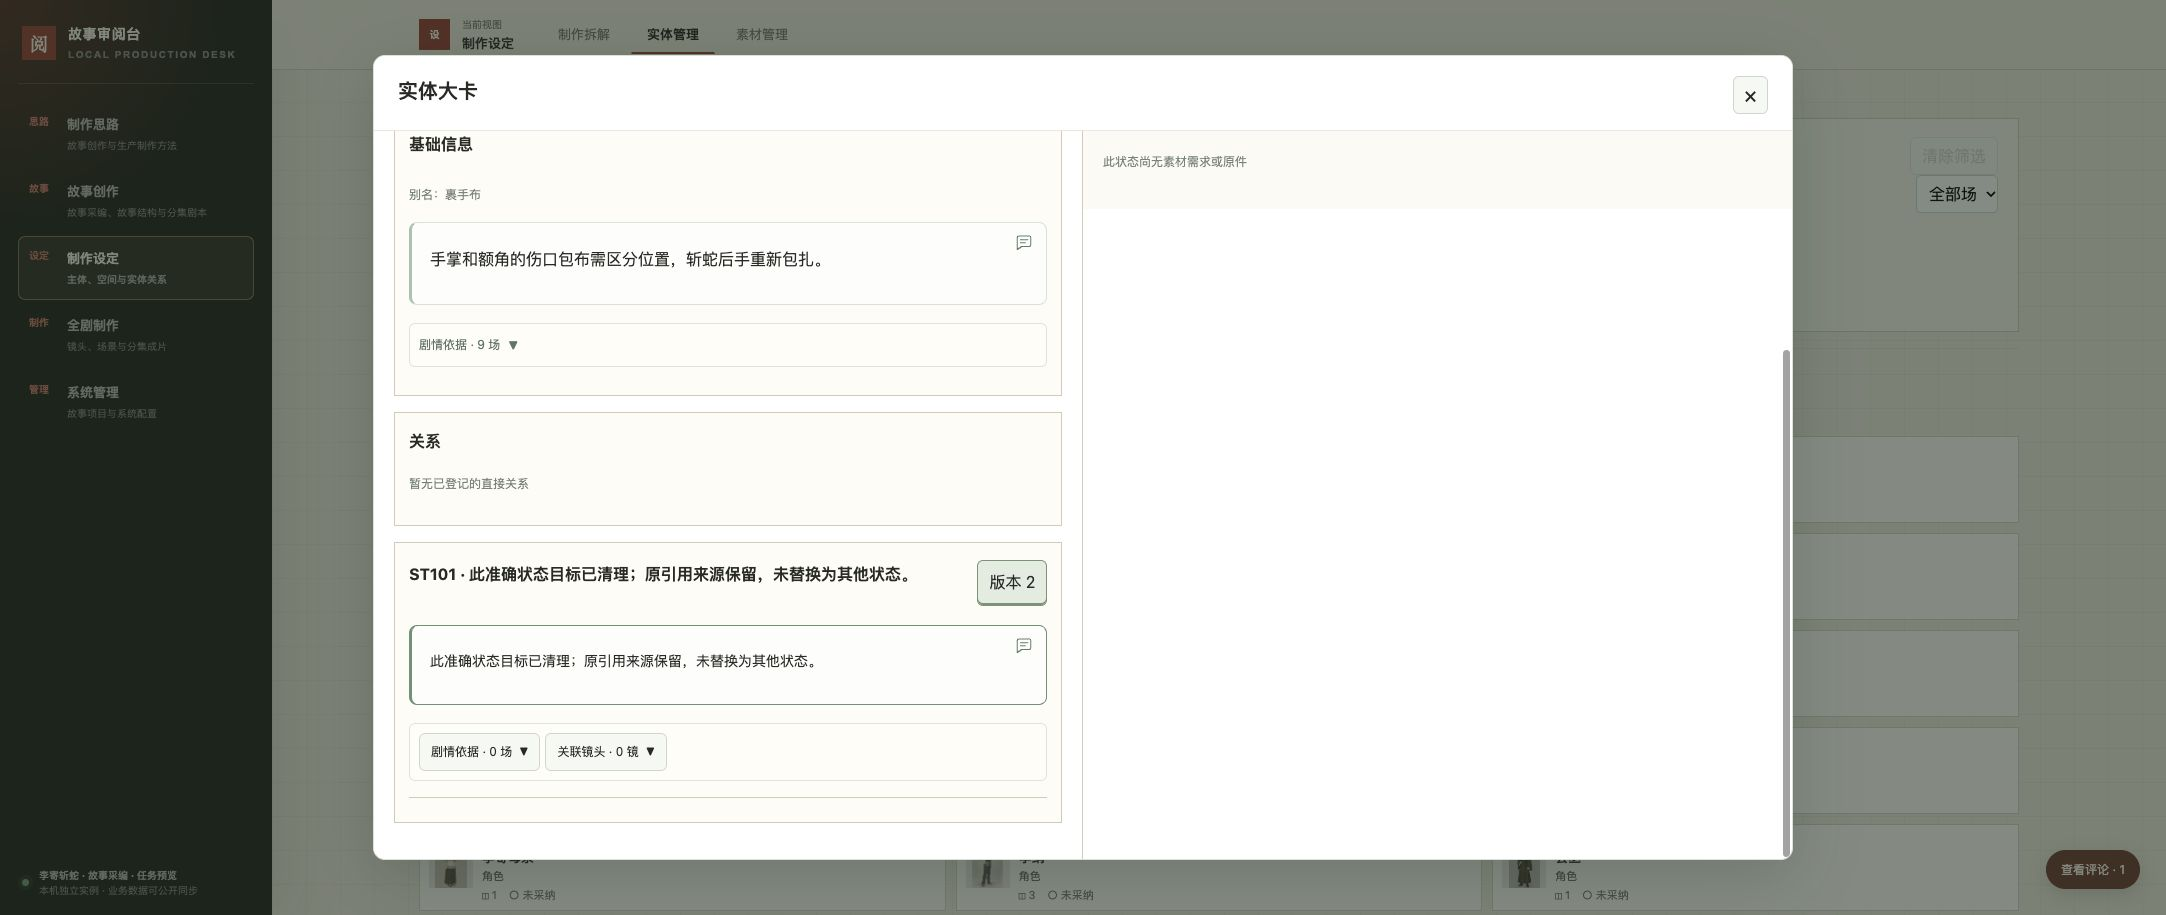
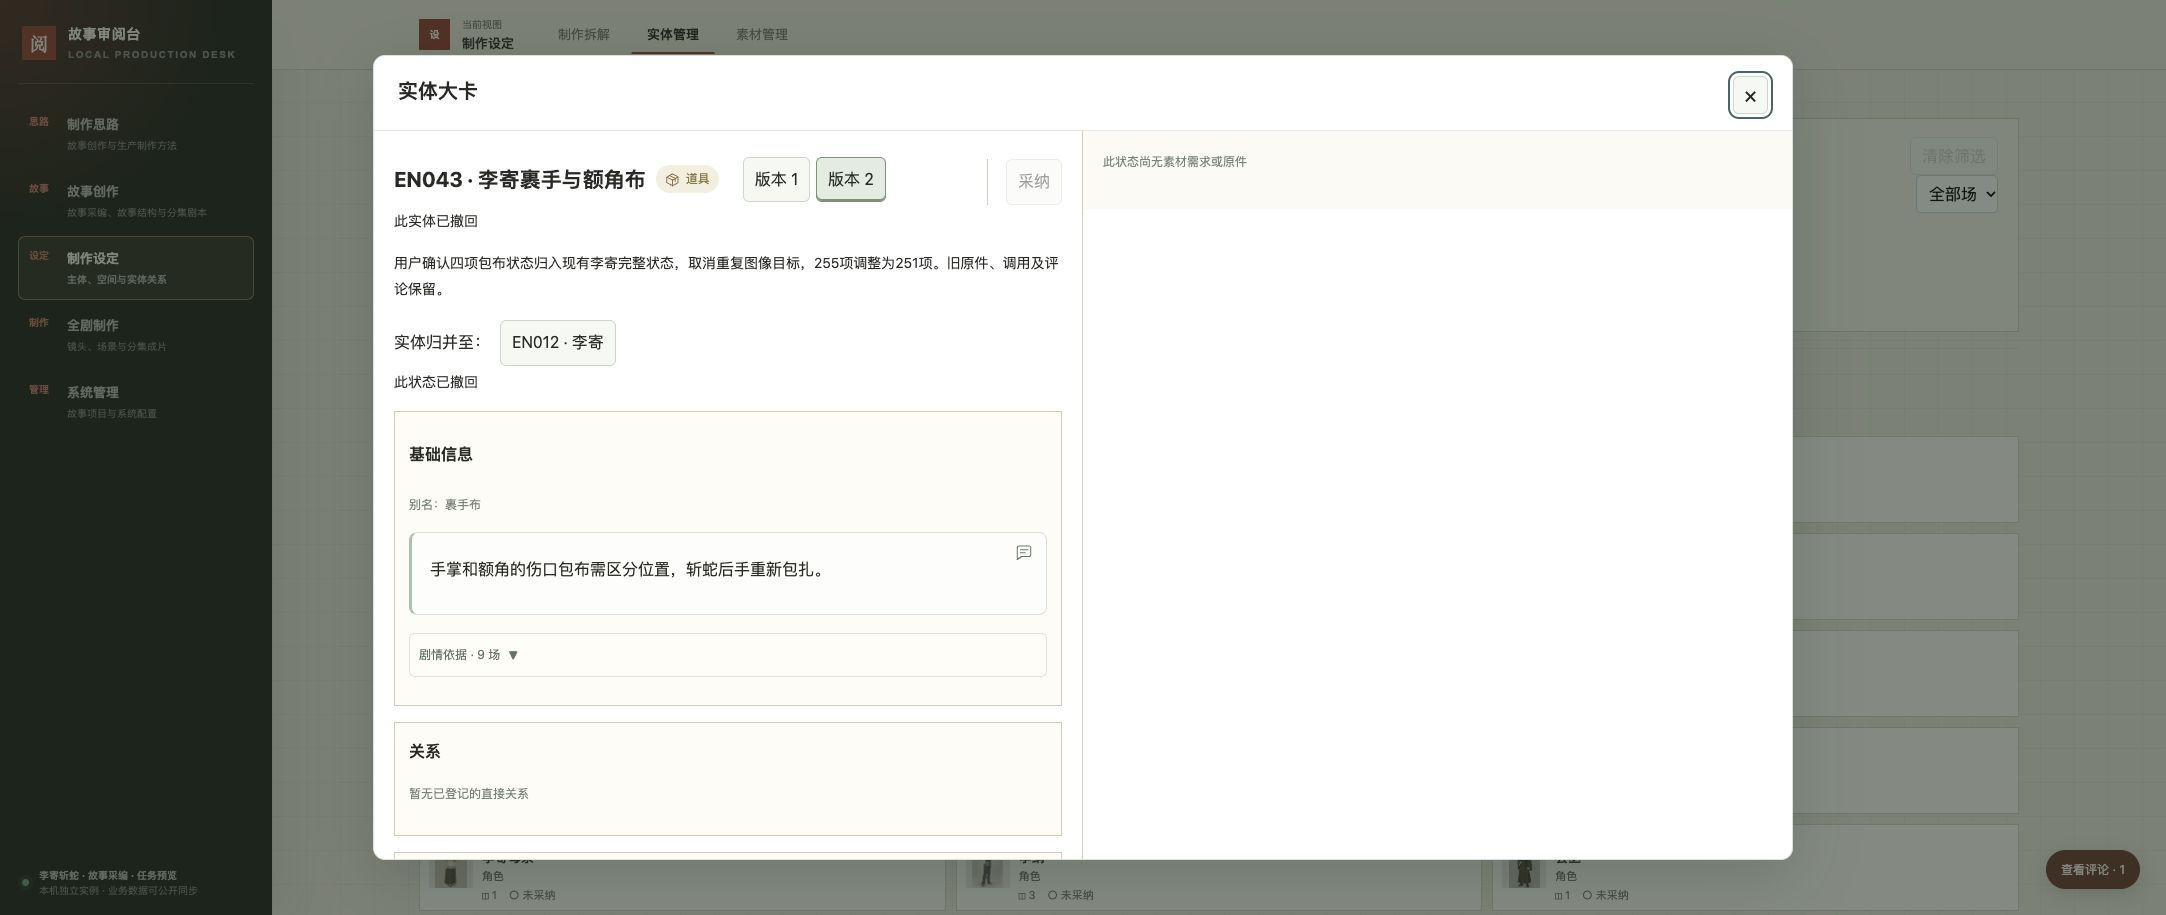
fix: preserve cleaned exact targets across page refresh

diff --git a/production/entity-card-v2/README.md b/production/entity-card-v2/README.md
@@ -15,13 +15,13 @@
 
 实际浏览器为已连接Chrome，桌面2166×915与窄屏390×844；[浏览器记录](evidence/browser.json)区分真实对象和隔离夹具。8候选夹具只将已有准确原件绑定到测试投影，未声明它们覆盖夹具状态，未创建媒体或真实调用，不发布该副本。测试库的评论、决定和夹具与交付库分开。
 
-系统候选与目标只维护在[双仓交付计划](system-delivery.json)，实例配置锁定同一提交。系统Python296项、JavaScript643项，故事发布守卫61项、完整状态编制6项通过；证据位于`evidence/*tests*.json`。静态检查和自动测试未代替上述浏览器操作。
+系统候选与目标只维护在[双仓交付计划](system-delivery.json)，实例配置锁定同一提交。系统Python297项、JavaScript644项，故事发布守卫61项、完整状态编制6项通过；证据位于`evidence/*tests*.json`。静态检查和自动测试未代替上述浏览器操作。
 
 ## 物理清理、引用及保全
 
 [清理计划](cleanup-plan.json)按当前133个实体头和当前完整状态范围确定90个独立历史状态，覆盖143次修订。包含86个旧局部状态和4个已撤回完整状态；打开旧实体版本不会改变范围。[逐项审计](cleanup-audit.json)列出准确身份、全部修订、所属实体、1100条历史／当前引用、素材组成和哈希、真实调用、相关评论及处置。无等价映射，不将旧引用迁移到现用状态；没有未解决的重要依赖。
 
-清理后真实`STATE`对象从359减至269，143份状态正文已物理替换为最小删除凭据；对象种类改为`DELETED_STATE`，冗余状态出边删除。对象／修订索引只作为外键身份载体，保留准确ID、所属实体、原哈希和原因，不带原状态块、维度、剧情正文或来源列表。这些身份行不计为状态，不是另存完整状态副本。准确历史链接显示“目标已清理”，保留引用来源，[包布准确目标截图](evidence/cleaned-exact-target.png)验证没有冒用最新状态。
+清理后真实`STATE`对象从359减至269，143份状态正文已物理替换为最小删除凭据；对象种类改为`DELETED_STATE`，冗余状态出边删除。对象／修订索引只作为外键身份载体，保留准确ID、所属实体、原哈希和原因，不带原状态块、维度、剧情正文或来源列表。这些身份行不计为状态，不是另存完整状态副本。准确历史链接显示“目标已清理”，保留引用来源，[包布准确目标截图](evidence/cleaned-exact-target.png)验证没有冒用最新状态，并补验打开与刷新后均保留准确目标及原实体归属。
 
 当前传入引用包括旧判断、状态前身追溯、已撤回需求和真实素材／调用。它们保留原准确目标及删除提示；没有当前采用关系指向目标。现有素材、真实调用、评论引文和其他对象修订不重写。新写入不能重建目标或增加对它的引用；需要继续修改含旧引用的历史对象时，须明确处置该引用，不能自动换成当前状态。
 
